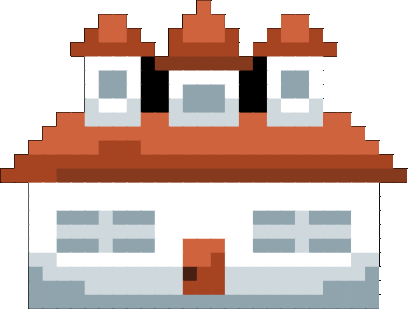
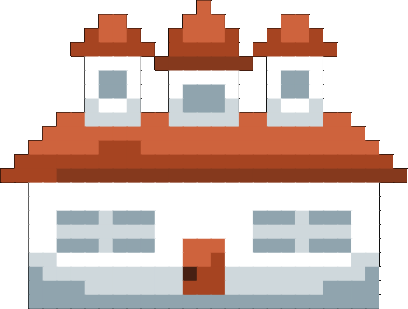
Houses: remove leftover black, smooth wall recolour, spawn every 200-350 steps

Changed region(s): [[0.3235, 0.1748, 0.4118, 0.3786], [0.5882, 0.1748, 0.6765, 0.3786]]

diff --git a/core/templates/core/game.html b/core/templates/core/game.html
@@ -572,11 +572,11 @@
             const p = data.data;
             for (let i = 0; i < p.length; i += 4) {
                 if (p[i + 3] === 0) { continue; }
-                // Pure white is the wall; the pale blue-gray is its shaded part.
-                if (p[i] === 255 && p[i + 1] === 255 && p[i + 2] === 255) {
-                    p[i] = color[0]; p[i + 1] = color[1]; p[i + 2] = color[2];
-                } else if (p[i] === 207 && p[i + 1] === 216 && p[i + 2] === 220) {
-                    p[i] = color[0] * 0.82; p[i + 1] = color[1] * 0.82; p[i + 2] = color[2] * 0.82;
+                // Wall and its shading are the near-neutral light pixels; keep their brightness so shading survives.
+                const lumv = lum(p[i], p[i + 1], p[i + 2]);
+                if (lumv > 190 && Math.max(p[i], p[i + 1], p[i + 2]) - Math.min(p[i], p[i + 1], p[i + 2]) < 40) {
+                    const k = Math.min(1, lumv / 255);
+                    p[i] = color[0] * k; p[i + 1] = color[1] * k; p[i + 2] = color[2] * k;
                 }
             }
             cx.putImageData(data, 0, 0);
@@ -593,11 +593,11 @@
         while (x < to) {
             const img = assets.houses[Math.floor(Math.random() * assets.houses.length)];
             const halfW = (img.width * HOUSE_SCALE) / 2;
-            const cxPos = x + halfW;
-            if (fixed.every((fx) => Math.abs(fx - cxPos) > HOUSE_CLEARANCE + halfW * 0.3)) {
-                houses.push({ img: colourHouse(img, pickWallColor()), x: cxPos });
+            if (fixed.every((fx) => Math.abs(fx - x) > HOUSE_CLEARANCE + halfW * 0.3)) {
+                houses.push({ img: colourHouse(img, pickWallColor()), x });
             }
-            x += halfW * 2 + 40 + Math.random() * 260;
+            // One house every 200-350 steps.
+            x += (200 + Math.random() * 150) * STEP;
         }
     };
     const drawHouses = () => {
